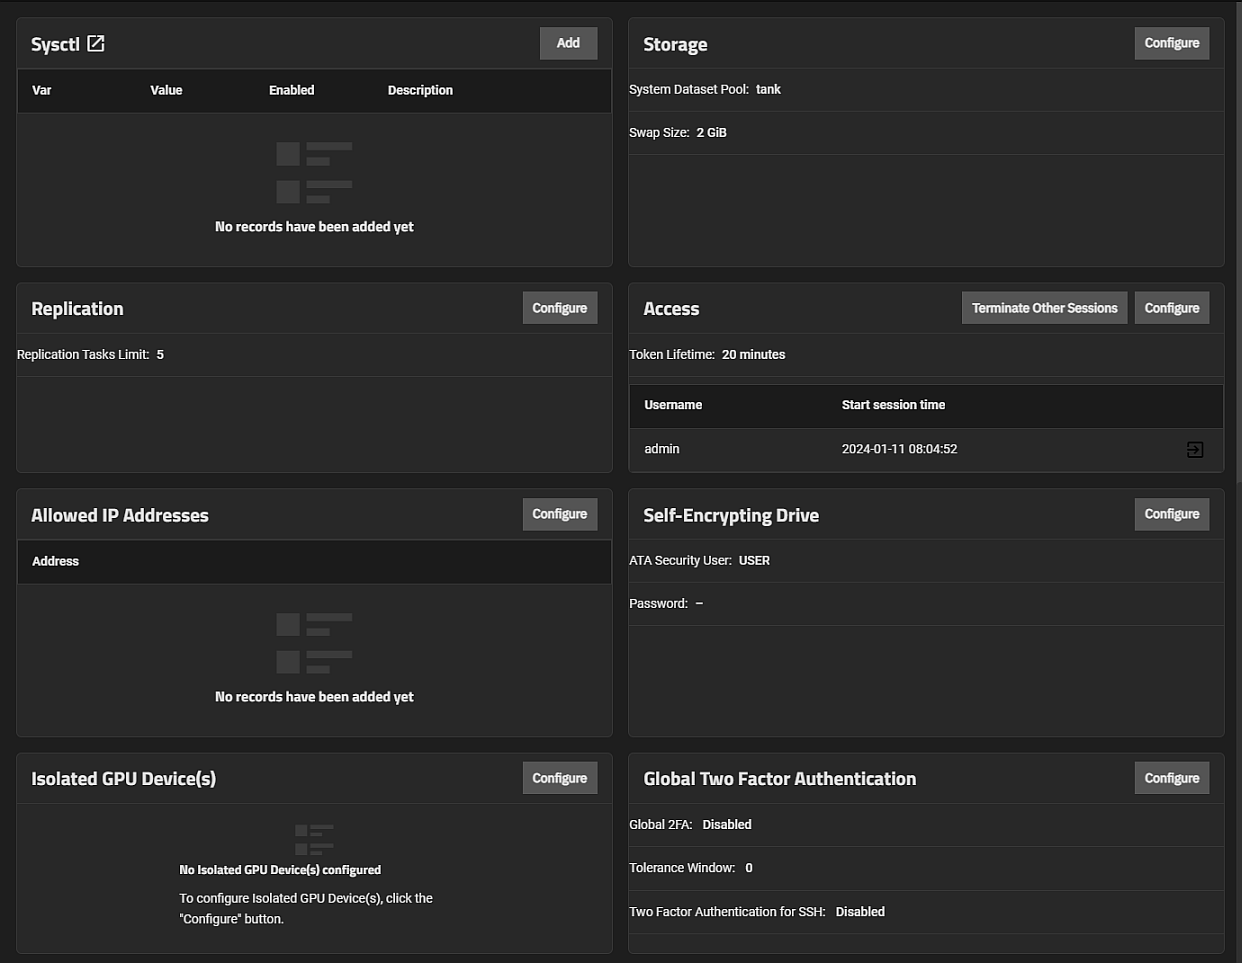
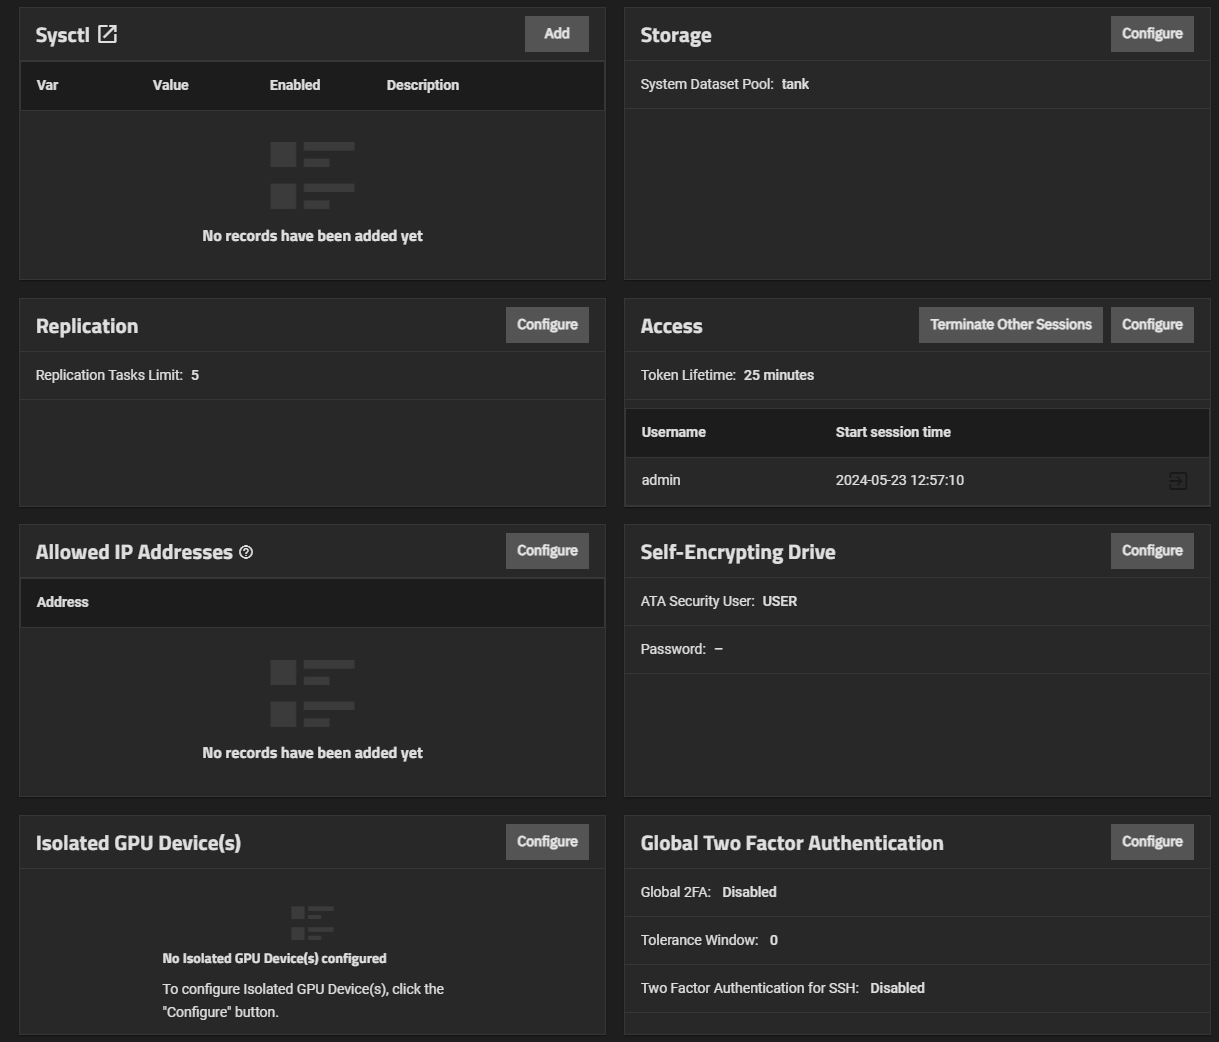
PD-1176 Remove Swap from Advanced Settings
This PR removes the swap size field from the System Settings/AdvancedSettingsScreen.md and SCALETutorials/SystemSettings/Advanced/_index.md articles.
It replaces the screenshots for the lower half of the System Settings > Advanced screen, the Storage widget and the Storage configuration screens. Images are compressed.

diff --git a/content/SCALE/SCALETutorials/SystemSettings/Advanced/_index.md b/content/SCALE/SCALETutorials/SystemSettings/Advanced/_index.md
@@ -47,7 +47,8 @@ Click **Save**.
 
 ## Managing the System Dataset Pool
 **Storage** widget displays the pool configured as the system dataset pool and allows users to select the storage pool they want to hold the system dataset.
-The system dataset stores core files for debugging and keys for encrypted pools. It also stores Samba4 metadata, such as the user and group cache and share-level permissions.
+The system dataset stores core files for debugging and keys for encrypted pools.
+It also stores Samba4 metadata, such as the user and group cache and share-level permissions.
 
 ![AdvancedSystemStorageWidget](/images/SCALE/SystemSettings/AdvancedSystemStorageWidget.png "SCALE Advanced System Dataset Pool Widget")
 
@@ -55,15 +56,14 @@ The system dataset stores core files for debugging and keys for encrypted pools.
 
 ### Storage Settings Configuration Screen
 
-If the system has one pool, TrueNAS configures that pool as the system dataset pool. If your system has more than one pool, you can set the system dataset pool using the **Select Pool** dropdown. Users can move the system dataset to an unencrypted pool, or an encrypted pool without passphrases.
+If the system has one pool, TrueNAS configures that pool as the system dataset pool.
+If your system has more than one pool, you can set the system dataset pool using the **Select Pool** dropdown.
+Users can move the system dataset to an unencrypted pool, or an encrypted pool without passphrases.
 
 ![SystemDatasetPoolConfigScreen](/images/SCALE/SystemSettings/SystemStorageConfigScreen.png "SCALE Advanced Settings System Dataset Pool Screen")
 
-Users can move the system dataset to a key-encrypted pool, but cannot change the pool encryption type afterward. If the encrypted pool already has a passphrase set, you cannot move the system dataset to that pool.
-
-**Swap Size** lets users enter an amount (in GiB) of hard disk space to use as a substitute for RAM when the system fully utilizes the actual RAM.
-
-By default, the system creates all data disks with the specified swap amount. Changing the value does not affect the amount of swap on existing disks, only disks added after the change. Swap size does not affect log or cache devices.
+Users can move the system dataset to a key-encrypted pool, but cannot change the pool encryption type afterward.
+If the encrypted pool already has a passphrase set, you cannot move the system dataset to that pool.
 
 ## Setting the Number of Replication Tasks
 

diff --git a/content/SCALE/SCALEUIReference/SystemSettings/AdvancedSettingsScreen.md b/content/SCALE/SCALEUIReference/SystemSettings/AdvancedSettingsScreen.md
@@ -201,11 +201,8 @@ Users can move the system dataset to an unencrypted pool, or an encrypted pool w
 
 {{< trueimage src="/images/SCALE/SystemSettings/SystemStorageConfigScreen.png" alt="System Dataset Pool Config Screen" id="System Dataset Pool Config Screen" >}}
 
-Users can move the system dataset to a key-encrypted pool, but cannot change the pool encryption type afterward. If the encrypted pool already has a passphrase set, you cannot move the system dataset to that pool.
-
-**Swap Size** lets users enter an amount (in GiB) of hard disk space to use as a substitute for RAM when the system fully utilizes the actual RAM.
-
-By default, the system creates all data disks with the specified swap amount. Changing the value does not affect the amount of swap on existing disks, only disks added after the change. Swap size does not affect log or cache devices.
+Users can move the system dataset to a key-encrypted pool, but cannot change the pool encryption type afterward.
+If the encrypted pool already has a passphrase set, you cannot move the system dataset to that pool.
 
 ## Replication Widget
 The **Replication** widget displays the number of replication tasks that can execute simultaneously configured on the system. It allows users to adjust the maximum number of replication tasks the system can perform simultaneously.
